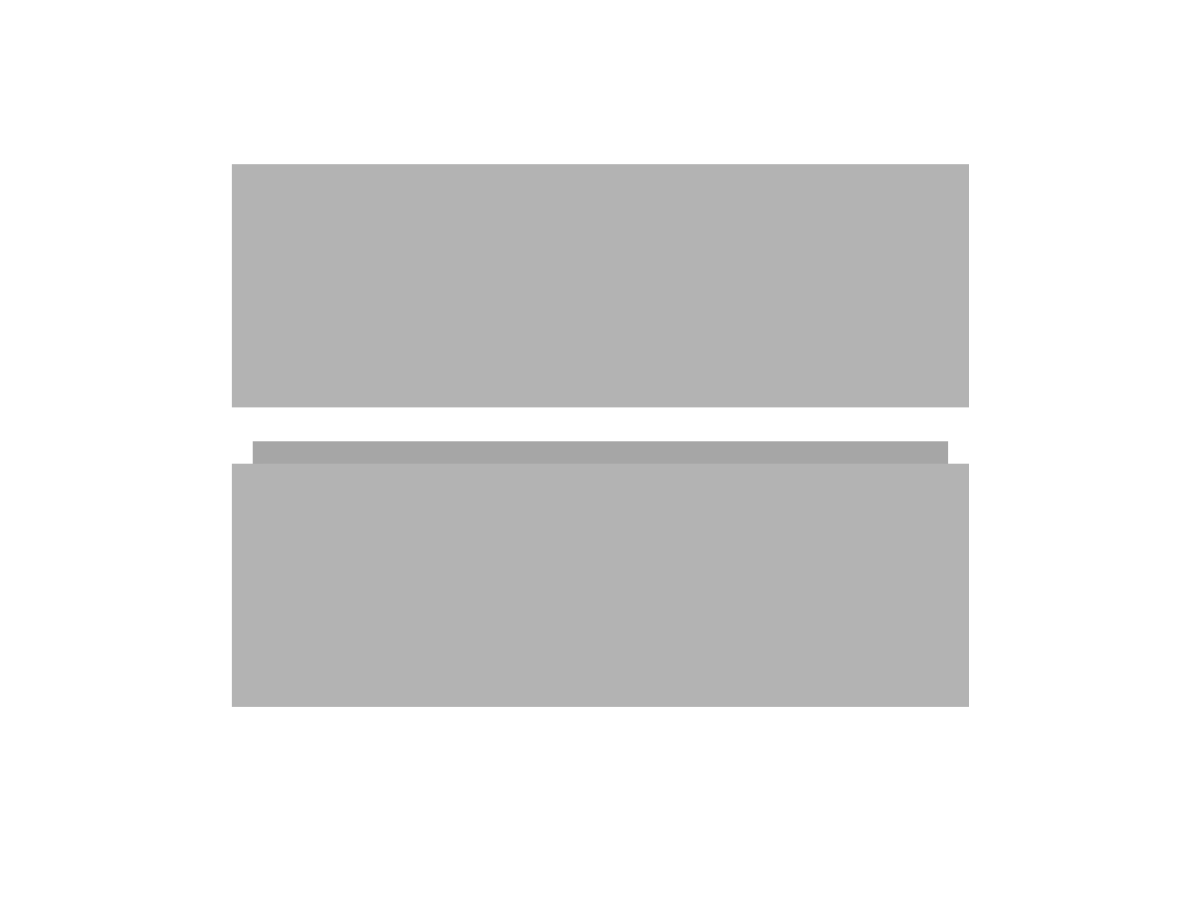
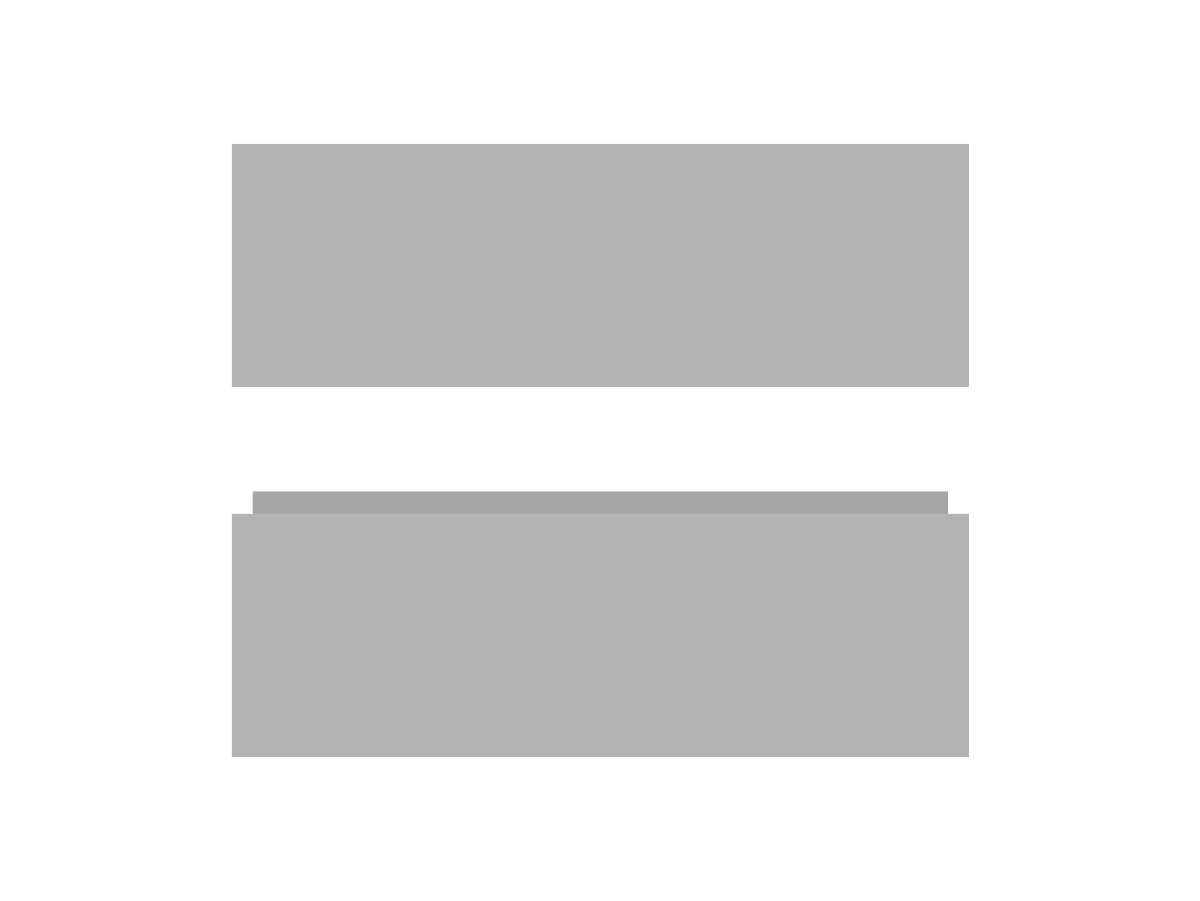
Show the boxes overlay when customers choose Add boxes on Business Cards.

Changed region(s): [[0.185, 0.404, 0.8325, 0.5905], [0.185, 0.7769, 0.8325, 0.8391], [0.185, 0.1554, 0.8325, 0.1865]]

diff --git a/src/lib/config-products/artwork.ts b/src/lib/config-products/artwork.ts
@@ -70,6 +70,11 @@ export const ARTWORK_PACKS: ArtworkPack[] = [
         valueLabel: "Double",
         url: "/print/business-cards/overlays/sides-double.png",
       },
+      {
+        optionName: "Add boxes?",
+        valueLabel: "Add boxes",
+        url: "/print/business-cards/overlays/boxes-add.png",
+      },
     ],
   },
 ];
